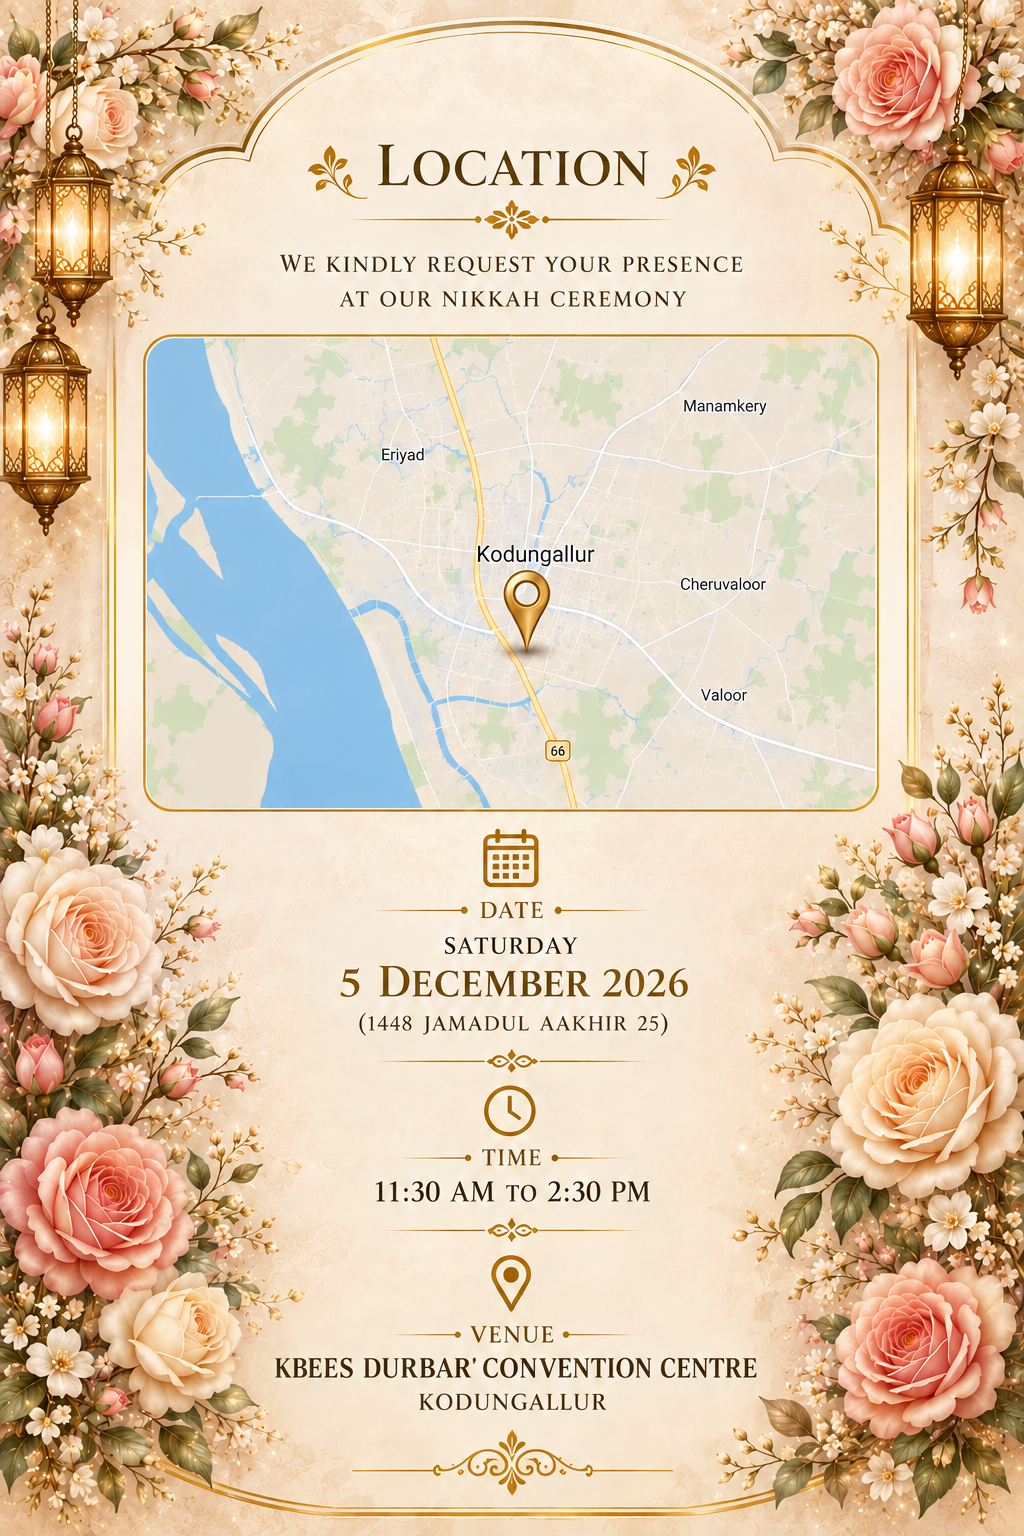
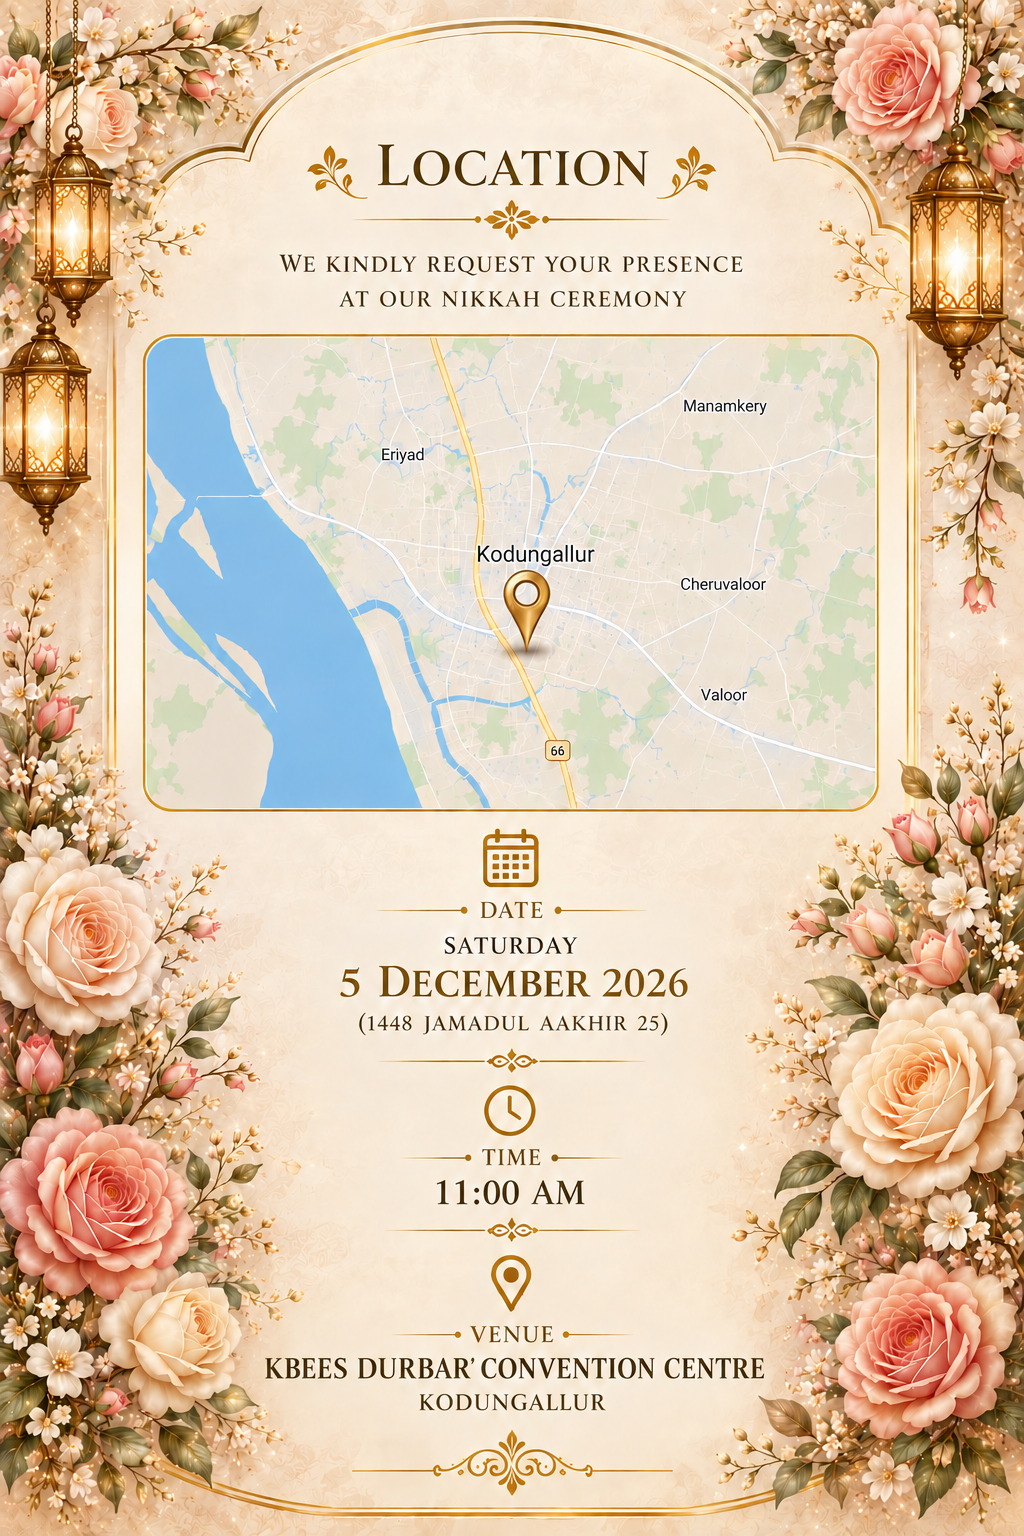
fixed

diff --git a/index.html b/index.html
@@ -859,7 +859,7 @@ footer#footer img{ display: block; }
           <div class="family-divider"></div>
           <div class="family-relation">
             <span class="family-label">S/o</span>
-            <div class="family-parents">Mr. Basheer V.A. &amp; Mrs. Sajia Basheer</div>
+            <div class="family-parents">Mr. Basheer V.A. &amp; Mrs. Sarja Basheer</div>
           </div>
           <div class="family-address">
             <span class="family-house">Vaippinkattil (H), Cheruvaloor (P.O.)</span>
@@ -867,7 +867,7 @@ footer#footer img{ display: block; }
           </div>
           <div class="family-grand">
             <span class="family-grand-label">Grand S/o</span>
-            <div class="family-grand-val"> late Vaippinkattil Abdu &amp; Late Nanethan Hamsa</div>
+            <div class="family-grand-val">Late Vaippinkattil Abdu &amp; Late Nanetha</div>
           </div>
         </div>
       </div>
@@ -926,8 +926,7 @@ footer#footer img{ display: block; }
         <div class="detail-card" data-fade>
           <div class="detail-icon"><svg viewBox="0 0 24 24" fill="none"><circle cx="12" cy="12" r="9" stroke="#C89B3C" stroke-width="1.3"/><path d="M12 7V12L15.5 14" stroke="#C89B3C" stroke-width="1.3" stroke-linecap="round"/></svg></div>
           <div class="detail-label">Time</div>
-          <div class="detail-main">11:30 AM</div>
-          <div class="detail-sub">to 2:30 PM</div>
+          <div class="detail-main">11:00 AM</div>
         </div>
         <div class="detail-card" data-fade>
           <div class="detail-icon"><svg viewBox="0 0 24 24" fill="none"><path d="M12 22C12 22 19 14.6 19 9.5C19 5.36 15.64 2 12 2C8.36 2 5 5.36 5 9.5C5 14.6 12 22 12 22Z" stroke="#C89B3C" stroke-width="1.3"/><circle cx="12" cy="9.5" r="2.5" stroke="#C89B3C" stroke-width="1.3"/></svg></div>
@@ -1067,7 +1066,7 @@ window.WEDDING_CONFIG = {
     monogram: "M&S"
   },
   event: {
-    dateISO: "2026-12-05T11:30:00+05:30",
+    dateISO: "2026-12-05T11:00:00+05:30",
     venueName: "Kbees Durbar Convention centre",
     venueAddress: "Kodungallur, Thrissur, Kerala",
     googleMapsUrl: "https://maps.app.goo.gl/mRqttA6ENtGcVbnT6"
